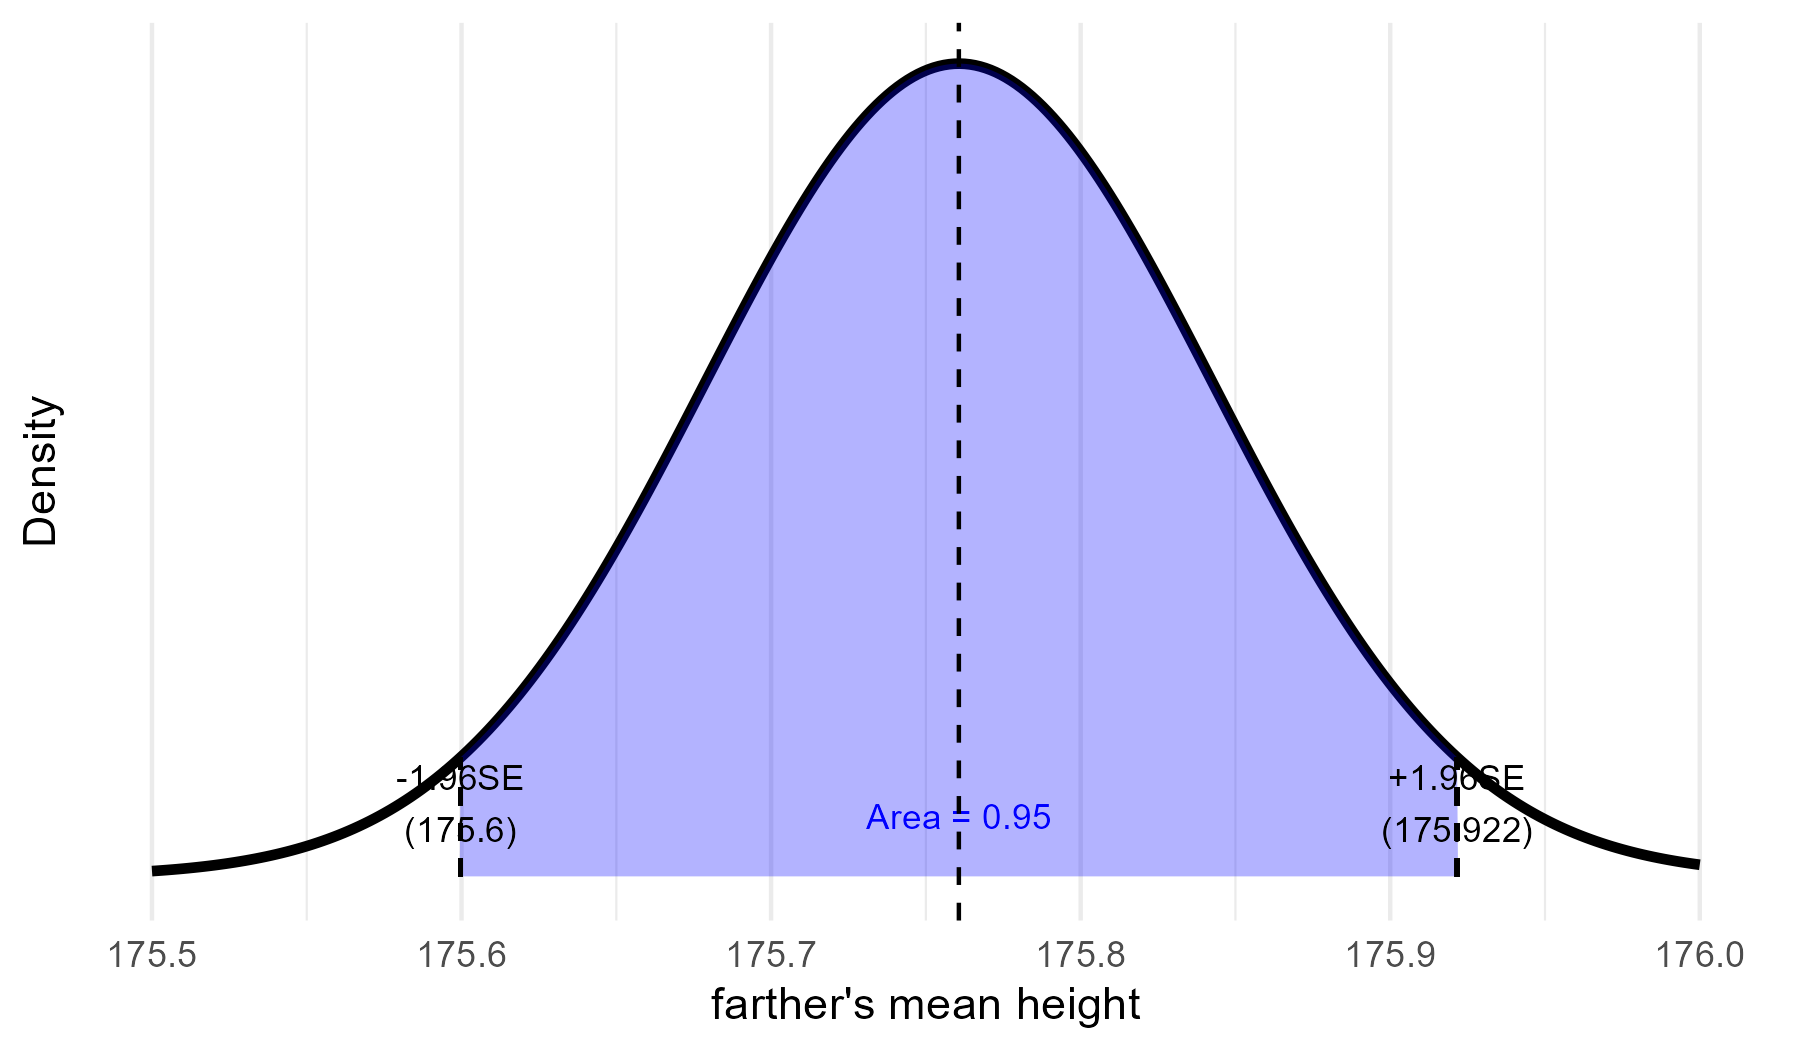
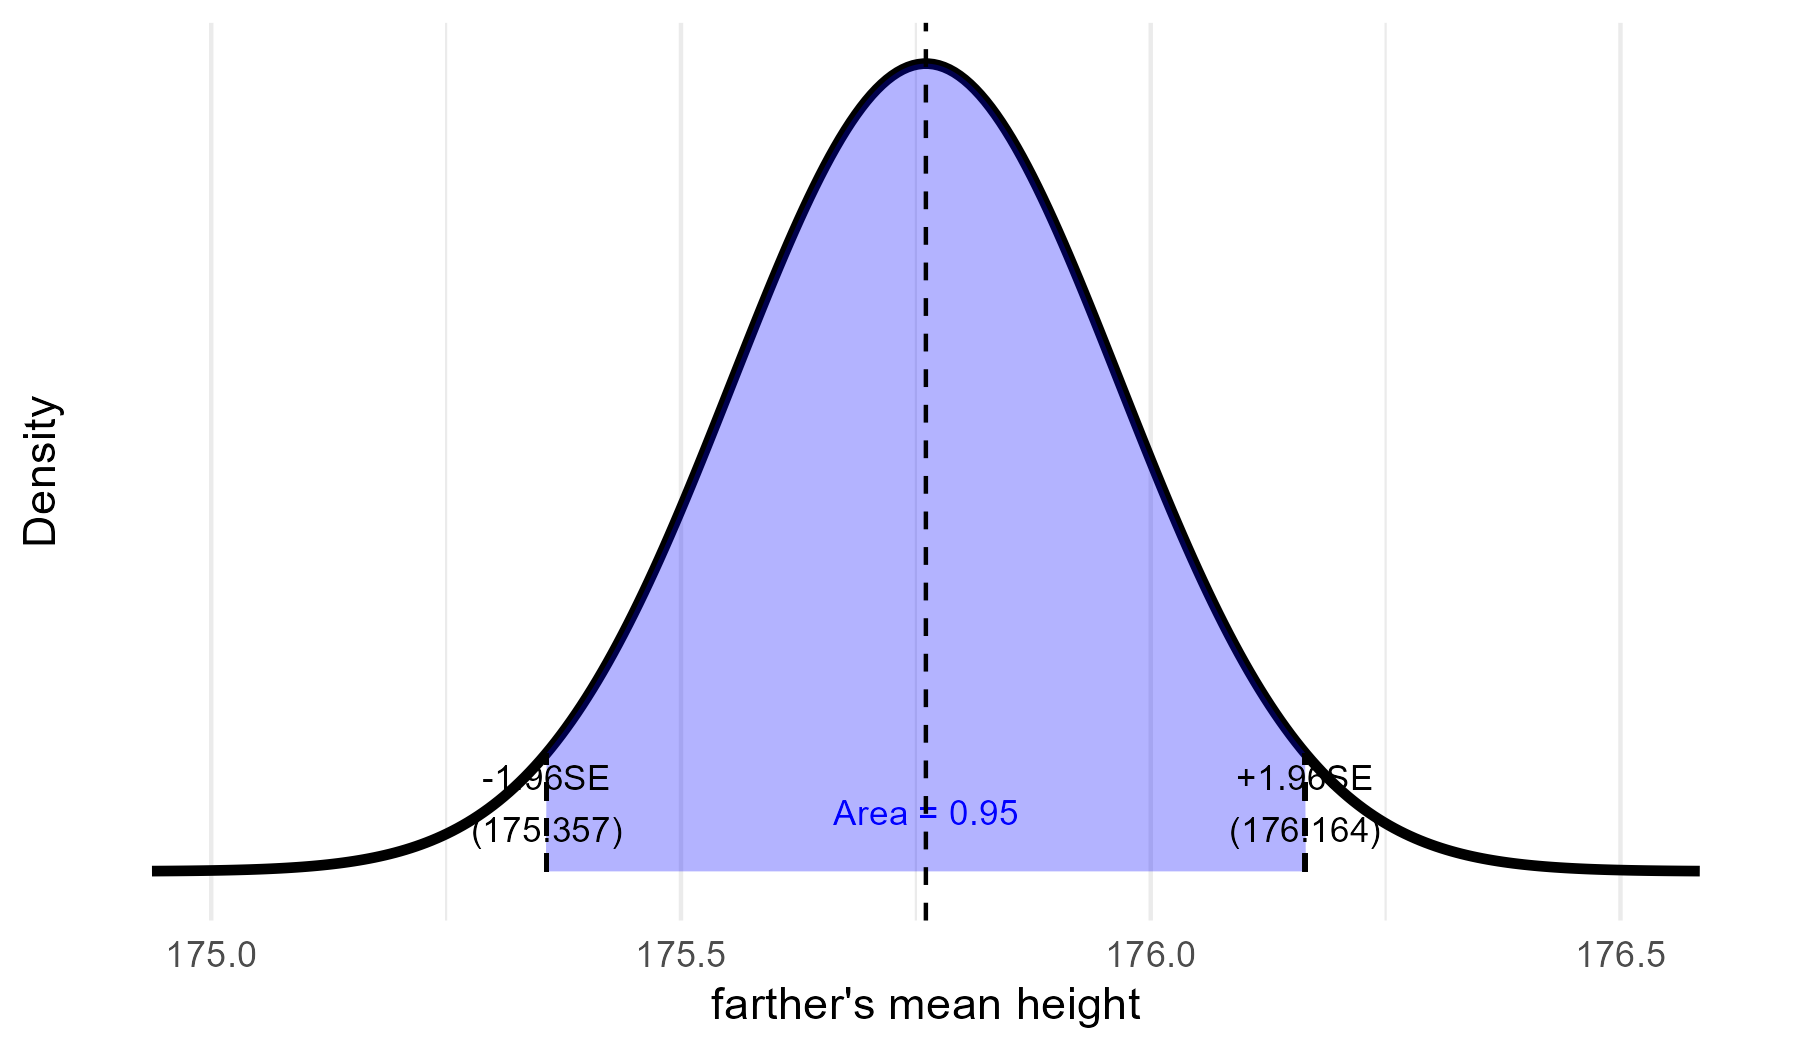
Lecture 7 minor

diff --git a/Lecture 7 - Confidence Intervals/Slides.html b/Lecture 7 - Confidence Intervals/Slides.html
@@ -138,7 +138,6 @@ class: middle
 - Sampling and point estimates
 - We will use the normal distribution
   + Z-based confidence interval for the mean
-- Working with proportions
 
 ]
 
@@ -301,11 +300,11 @@ class: middle
 #### Step by step
 - In 934 observations we calculated:
   + `\(\overline{X} = 175.8\)`
-  + `\(S^2 = 6.3\)` 
-  + and it follows: `\(SE = \sqrt{\frac{6.3}{934-1}}\approx0.0822\)`
+  + `\(S^2 = 39.56\)` 
+  + and it follows: `\(SE = \sqrt{\frac{39.56}{934-1}}\approx0.206\)`
   
 - It follows that the mean height has the distribution:
-  + `\(\overline{X} \sim \mathscr{N}(175.8, \;0.0822)\)`
+  + `\(\overline{X} \sim \mathscr{N}(175.8, \;0.206)\)`
 
 ]
 
@@ -315,7 +314,7 @@ class: middle
 ]
 
 
-**Conclusion: We are 95 pct sure that the true mean can be found between 175.6 and 175.92**
+**Conclusion: We are 95 pct sure that the true mean can be found between 175.36 and 176.16**
 
 ---
 class: middle
@@ -349,11 +348,32 @@ Note: `\(Z_{\alpha/2}\)` is something you have to look up (or compute with e.g. 
 
 - 95% confidence interval (`\(\alpha = 0.05\)`) then: `\(\longrightarrow\)` `\(Z = 1.960\)`
 
-- 95% confidence interval (`\(\alpha = 0.10\)`) then: `\(\longrightarrow\)` `\(Z = 1.645\)`
+- 90% confidence interval (`\(\alpha = 0.10\)`) then: `\(\longrightarrow\)` `\(Z = 1.645\)`
 
 (After a while, you learn these values by heart. Especially 1.96)
+
+*Let's play around with it in a small app*
 ]
 ] 
+
+---
+class: middle
+# Exercise 1:
+
+.pull-left-wide[
+In a representative poll of 500 respondents, 85% of Greenlanders, said that they
+did not want to leave Denmark and become part of the USA. 
+&gt; *How sure are we, that it is 85 pct of the population of voters? What is the 95 pct confidence interval?*
+
+Information given: The standard deviation, `\(\sigma\)`, is: 0.1275
+
+]
+
+.pull-right-narrow[
+![Greenland](Figures/Sampling_in_practice.png)
+]
+
+
 
 ---
 # Next time
